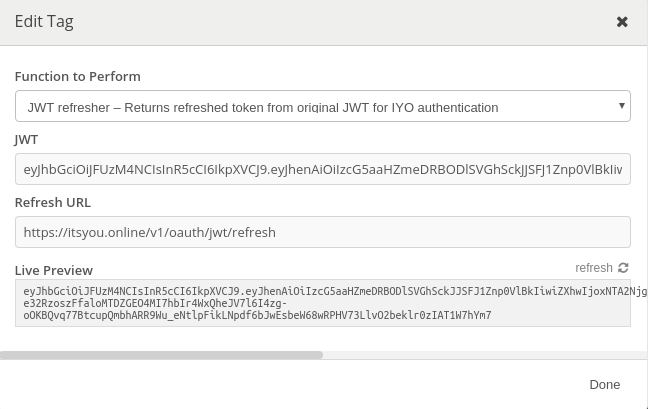
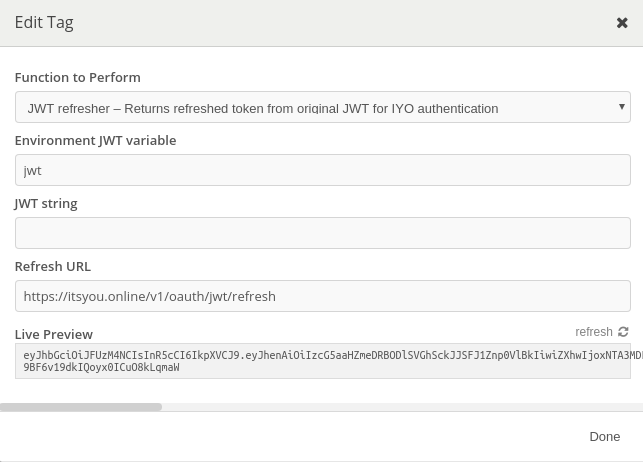
can use env jwt

diff --git a/main.js b/main.js
@@ -6,8 +6,14 @@ module.exports.templateTags = [{
     description: 'Returns refreshed token from original JWT for IYO authentication',
     args: [
         {
-            displayName: 'JWT',
-            description: 'original JWT',
+            displayName: 'Environment JWT variable',
+            description: 'original JWT from environment',
+            type: 'string',
+            defaultValue: ''
+        },
+        {
+            displayName: 'JWT string',
+            description: 'original JWT string',
             type: 'string',
             defaultValue: ''
         },
@@ -18,22 +24,32 @@ module.exports.templateTags = [{
             defaultValue: "https://itsyou.online/v1/oauth/jwt/refresh"
         }
     ],
-    async run (context, jwt, refreshURL) {
-        console.log("JWT to refresh: " + jwt)
-        console.log("URL JWT refresh: " + refreshURL)
+    async run (ctx, jwtVar, jwtStr, refreshURL) {
+        console.log(ctx.context);
+        console.log("JWT var to refresh: " + jwtVar);
+        console.log("JWT to refresh: " + jwtStr);
+        console.log("URL JWT refresh: " + refreshURL);
+        
+        jwt = ctx.context[jwtVar];
+        if (jwtStr != "") {
+            var jwt = jwtStr;
+        }
+
         try{
             var newToken = await getRefreshedJWT(jwt, refreshURL);
             console.log("Refreshed token: " + newToken);
-            return newToken
+            return newToken;
         } catch(err) {
             console.log("Failed to get a refreshed token");
             console.log("Error: " + err);
-            return jwt
+            return jwt;
         }
     }
 }];
 
 function getRefreshedJWT(jwt, refreshURL){
+    console.log("JWT to refresh: " + jwt);
+    console.log("URL JWT refresh: " + refreshURL);
     return new Promise(function(resolve, reject) {    
         var options = {
             method: 'GET',
@@ -45,7 +61,7 @@ function getRefreshedJWT(jwt, refreshURL){
     
         request(options, function(error, response, body) {
             if (!error && response.statusCode == 200) {
-                resolve(body)
+                resolve(body);
             }
 
             reject(error);

diff --git a/README.md b/README.md
@@ -8,7 +8,9 @@ Just type jwt and the plugin should pop up.
 
 ![Plugin is selected](assets/use2.png)
 
-By clicking on the plugin, you can set the JWT that needs to be refreshed and the destination URL that refreshes the JWT
+By clicking on the plugin, you can set the JWT that needs to be refreshed and the destination URL that refreshes the JWT.  
+You can either specify the name of an environmental variable where a JWT is stored  
+or provide the JWT itself, if both are provided, the plugin will take the provided JWT over the environmental variable.
 
 ![Plugin options](assets/use3.png)
 
